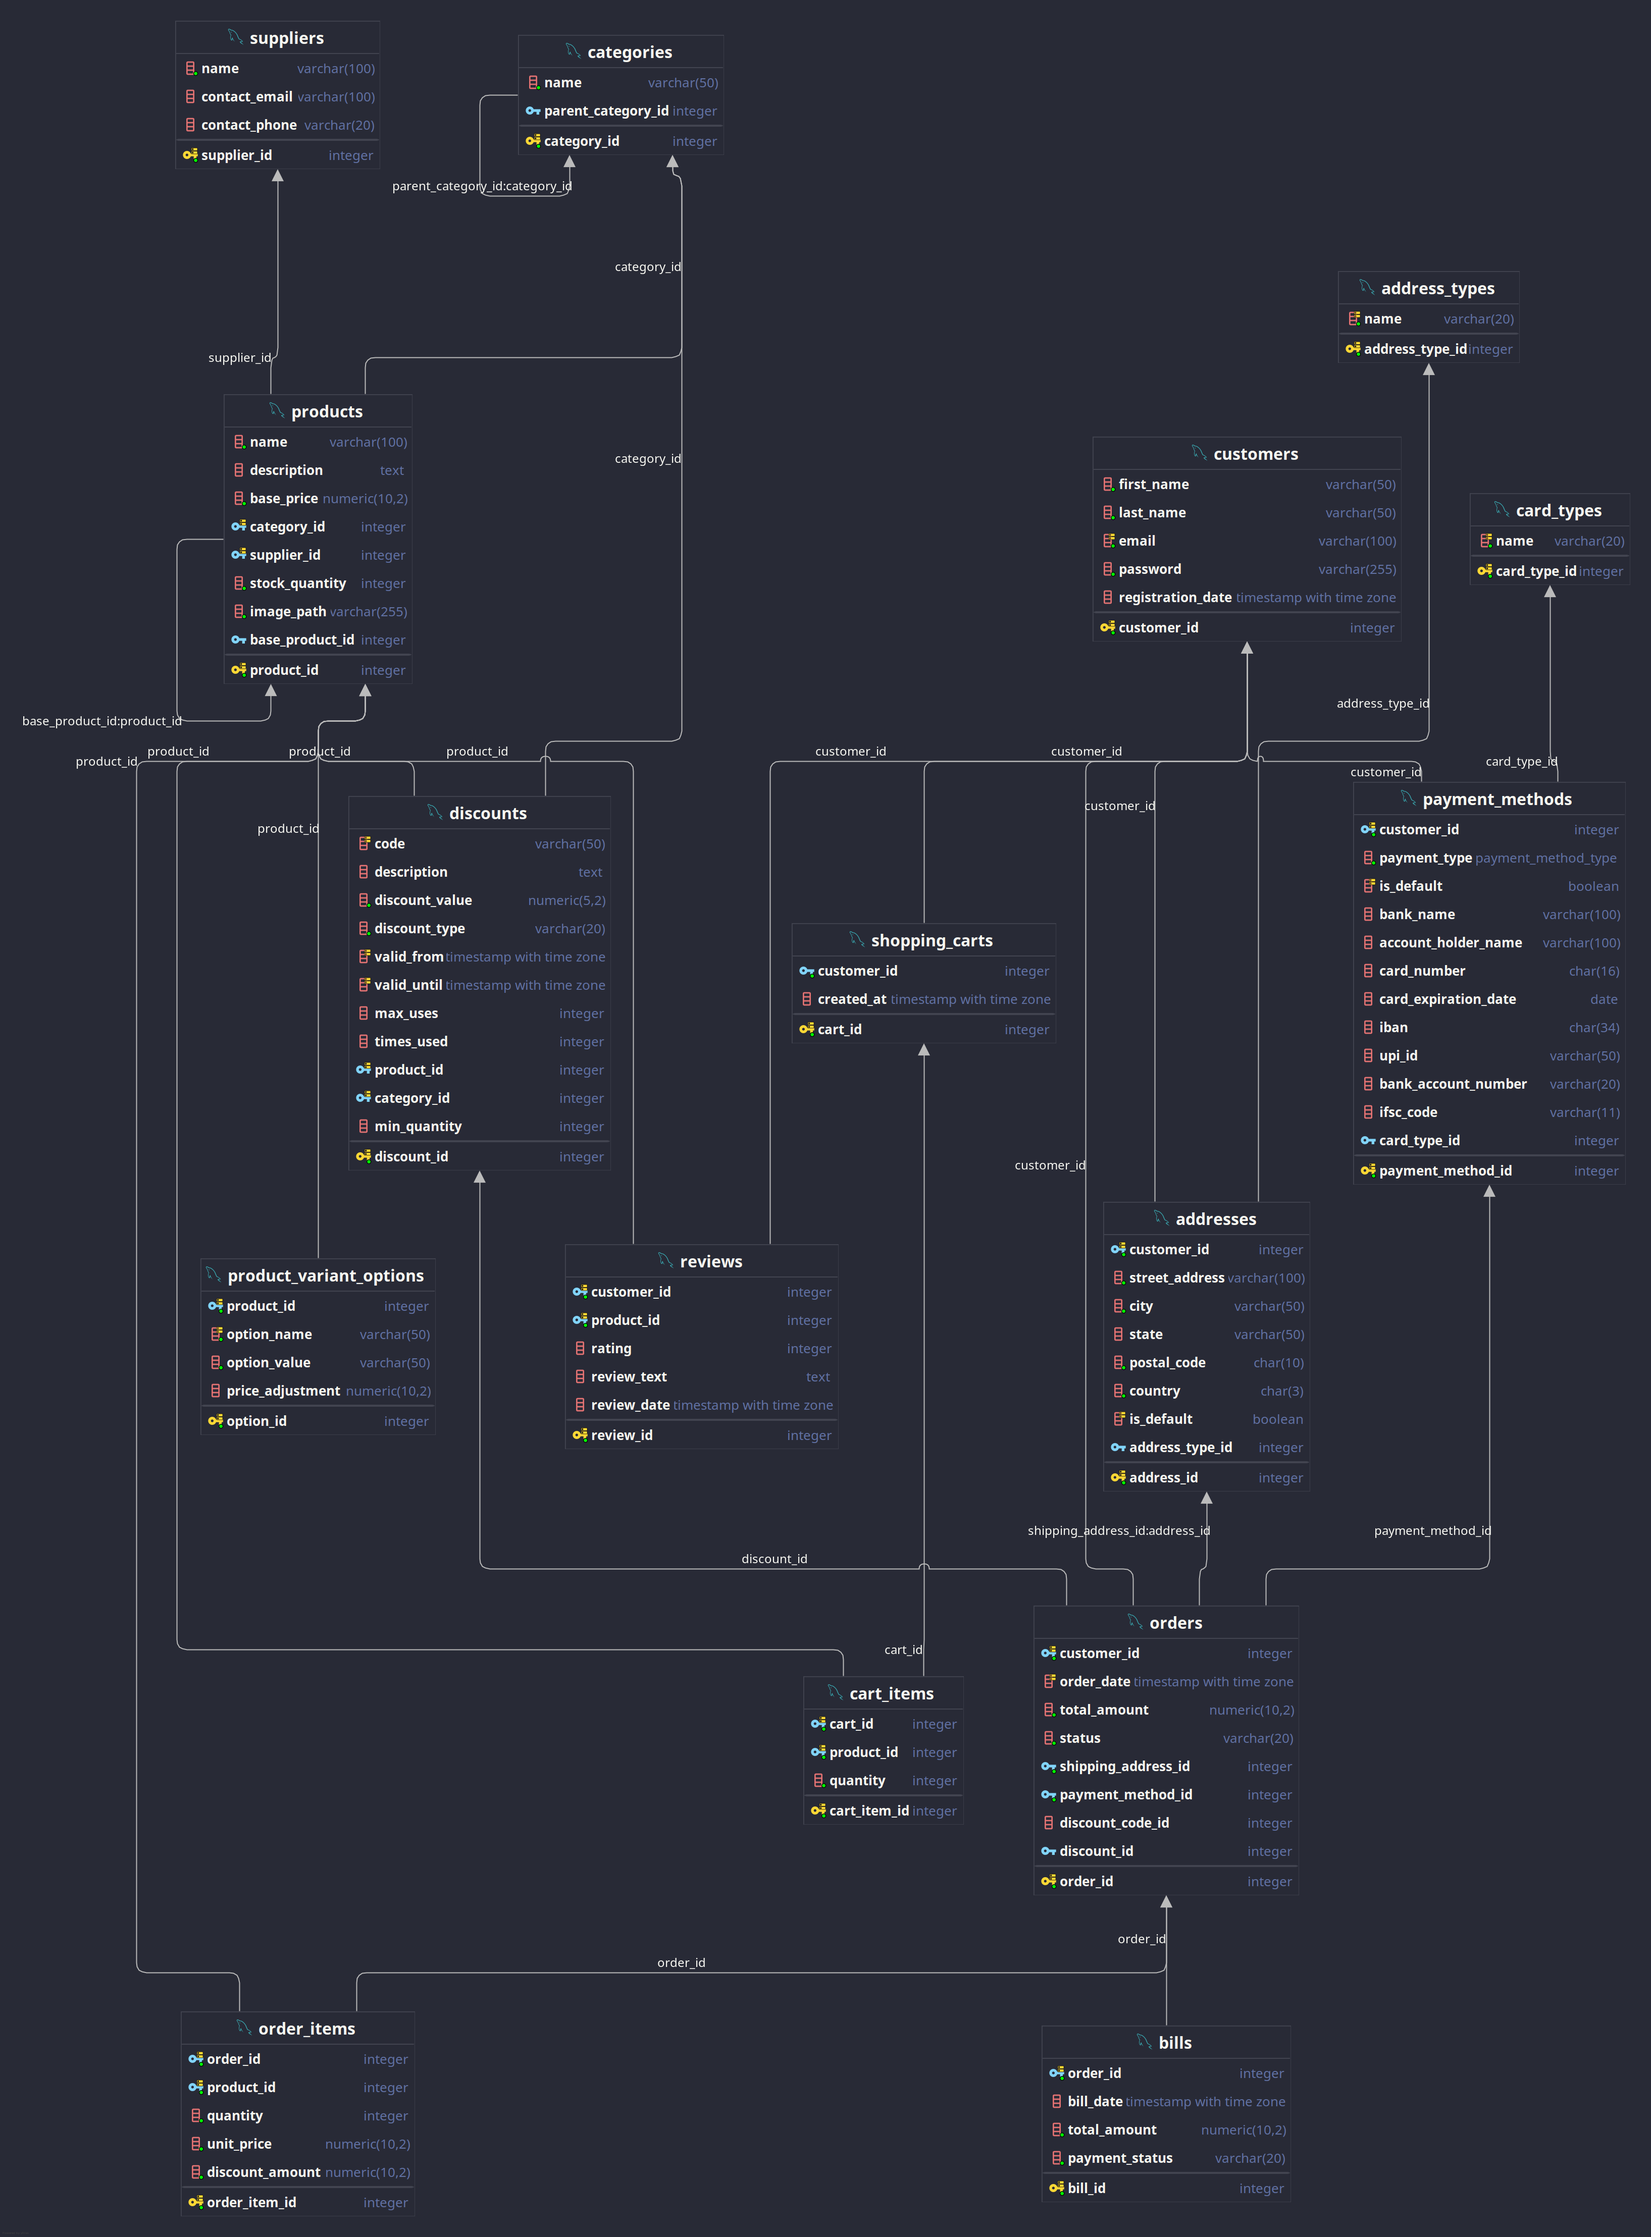
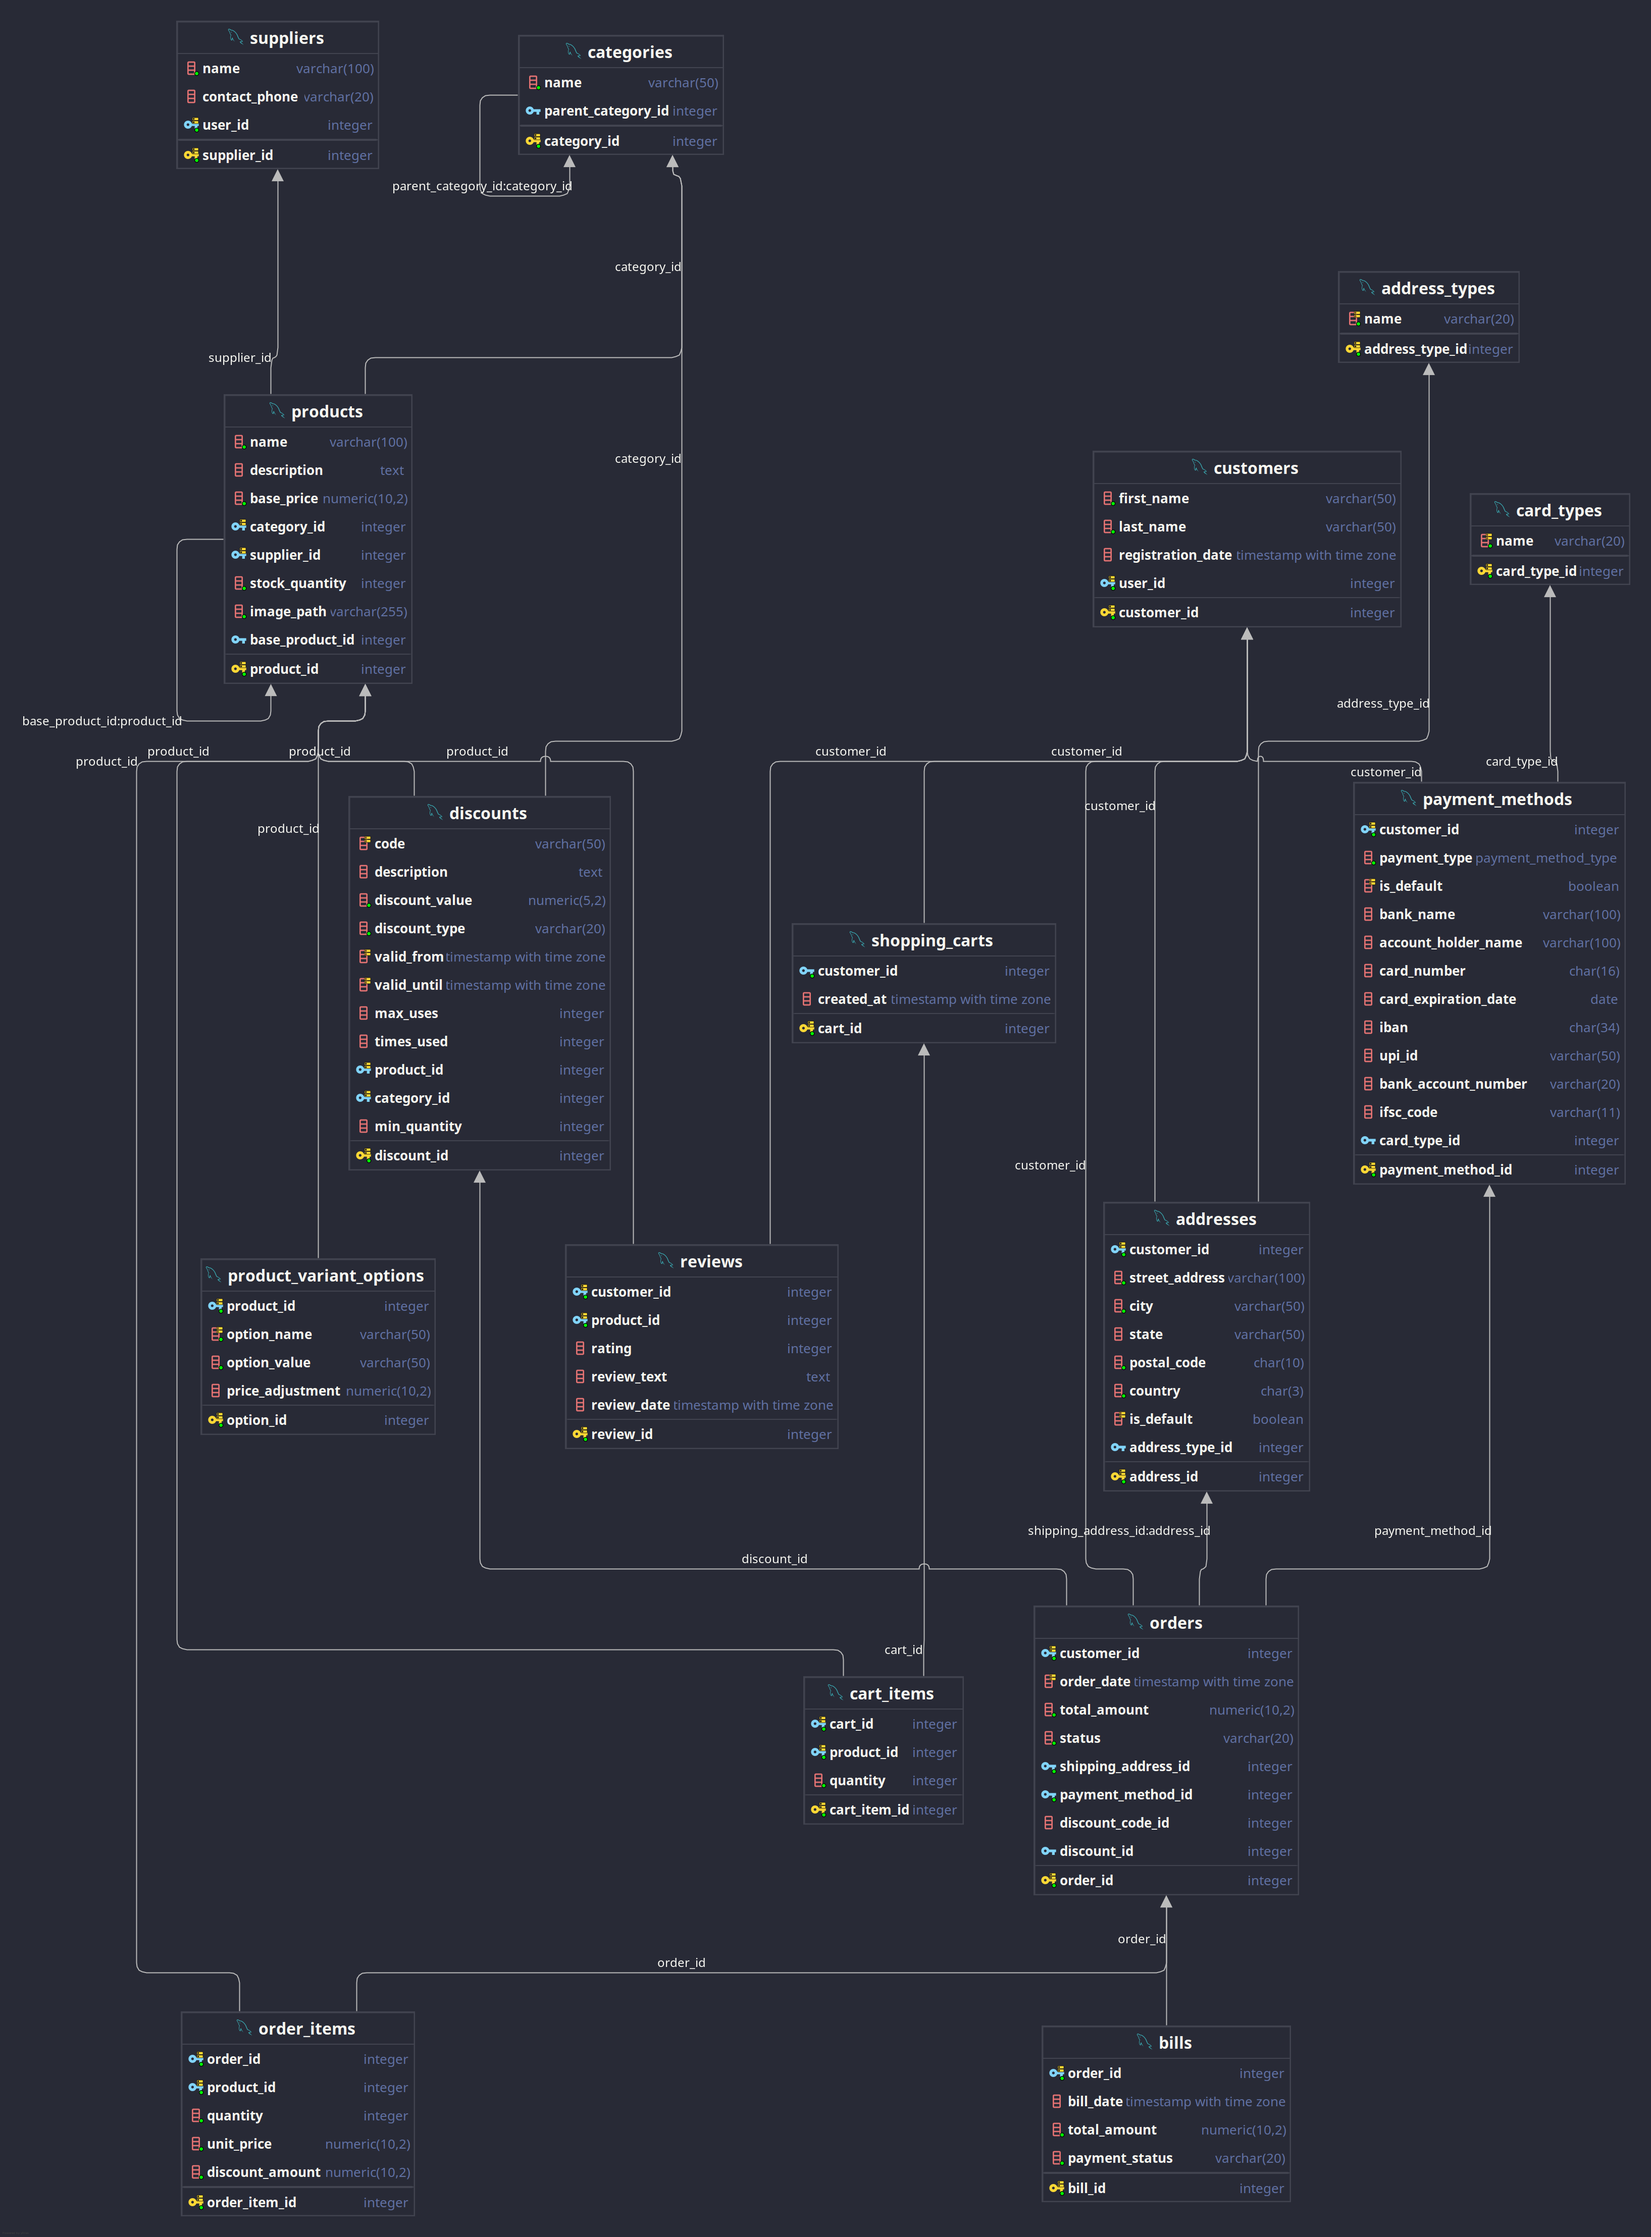
update: added rabac to customer and supplier model

Changed region(s): [[0.655, 0.218, 0.8422, 0.2802], [0.0936, 0.0311, 0.2183, 0.0934], [0.7174, 0.1868, 0.7798, 0.218]]

diff --git a/api-server/src/entity/customers.rs b/api-server/src/entity/customers.rs
@@ -9,10 +9,9 @@ pub struct Model {
     pub customer_id: i32,
     pub first_name: String,
     pub last_name: String,
-    #[sea_orm(unique)]
-    pub email: String,
-    pub password: String,
     pub registration_date: Option<DateTimeWithTimeZone>,
+    #[sea_orm(unique)]
+    pub user_id: i32,
 }
 
 #[derive(Copy, Clone, Debug, EnumIter, DeriveRelation)]
@@ -27,6 +26,14 @@ pub enum Relation {
     Reviews,
     #[sea_orm(has_many = "super::shopping_carts::Entity")]
     ShoppingCarts,
+    #[sea_orm(
+        belongs_to = "super::users::Entity",
+        from = "Column::UserId",
+        to = "super::users::Column::UserId",
+        on_update = "NoAction",
+        on_delete = "Cascade"
+    )]
+    Users,
 }
 
 impl Related<super::addresses::Entity> for Entity {
@@ -56,6 +63,12 @@ impl Related<super::reviews::Entity> for Entity {
 impl Related<super::shopping_carts::Entity> for Entity {
     fn to() -> RelationDef {
         Relation::ShoppingCarts.def()
+    }
+}
+
+impl Related<super::users::Entity> for Entity {
+    fn to() -> RelationDef {
+        Relation::Users.def()
     }
 }
 

diff --git a/api-server/src/entity/users.rs b/api-server/src/entity/users.rs
@@ -1,0 +1,37 @@
+//! `SeaORM` Entity, @generated by sea-orm-codegen 1.1.1
+
+use sea_orm::entity::prelude::*;
+
+#[derive(Clone, Debug, PartialEq, DeriveEntityModel, Eq)]
+#[sea_orm(table_name = "users")]
+pub struct Model {
+    #[sea_orm(primary_key)]
+    pub user_id: i32,
+    #[sea_orm(unique)]
+    pub email: String,
+    pub password: String,
+    pub role: String,
+    pub created_at: Option<DateTimeWithTimeZone>,
+}
+
+#[derive(Copy, Clone, Debug, EnumIter, DeriveRelation)]
+pub enum Relation {
+    #[sea_orm(has_one = "super::customers::Entity")]
+    Customers,
+    #[sea_orm(has_one = "super::suppliers::Entity")]
+    Suppliers,
+}
+
+impl Related<super::customers::Entity> for Entity {
+    fn to() -> RelationDef {
+        Relation::Customers.def()
+    }
+}
+
+impl Related<super::suppliers::Entity> for Entity {
+    fn to() -> RelationDef {
+        Relation::Suppliers.def()
+    }
+}
+
+impl ActiveModelBehavior for ActiveModel {}

diff --git a/api-server/src/entity/suppliers.rs b/api-server/src/entity/suppliers.rs
@@ -8,19 +8,34 @@ pub struct Model {
     #[sea_orm(primary_key)]
     pub supplier_id: i32,
     pub name: String,
-    pub contact_email: Option<String>,
     pub contact_phone: Option<String>,
+    #[sea_orm(unique)]
+    pub user_id: i32,
 }
 
 #[derive(Copy, Clone, Debug, EnumIter, DeriveRelation)]
 pub enum Relation {
     #[sea_orm(has_many = "super::products::Entity")]
     Products,
+    #[sea_orm(
+        belongs_to = "super::users::Entity",
+        from = "Column::UserId",
+        to = "super::users::Column::UserId",
+        on_update = "NoAction",
+        on_delete = "Cascade"
+    )]
+    Users,
 }
 
 impl Related<super::products::Entity> for Entity {
     fn to() -> RelationDef {
         Relation::Products.def()
+    }
+}
+
+impl Related<super::users::Entity> for Entity {
+    fn to() -> RelationDef {
+        Relation::Users.def()
     }
 }
 

diff --git a/api-server/src/entity/prelude.rs b/api-server/src/entity/prelude.rs
@@ -16,3 +16,4 @@ pub use super::products::Entity as Products;
 pub use super::reviews::Entity as Reviews;
 pub use super::shopping_carts::Entity as ShoppingCarts;
 pub use super::suppliers::Entity as Suppliers;
+pub use super::users::Entity as Users;

diff --git a/api-server/src/entity/mod.rs b/api-server/src/entity/mod.rs
@@ -19,3 +19,4 @@ pub mod reviews;
 pub mod sea_orm_active_enums;
 pub mod shopping_carts;
 pub mod suppliers;
+pub mod users;
